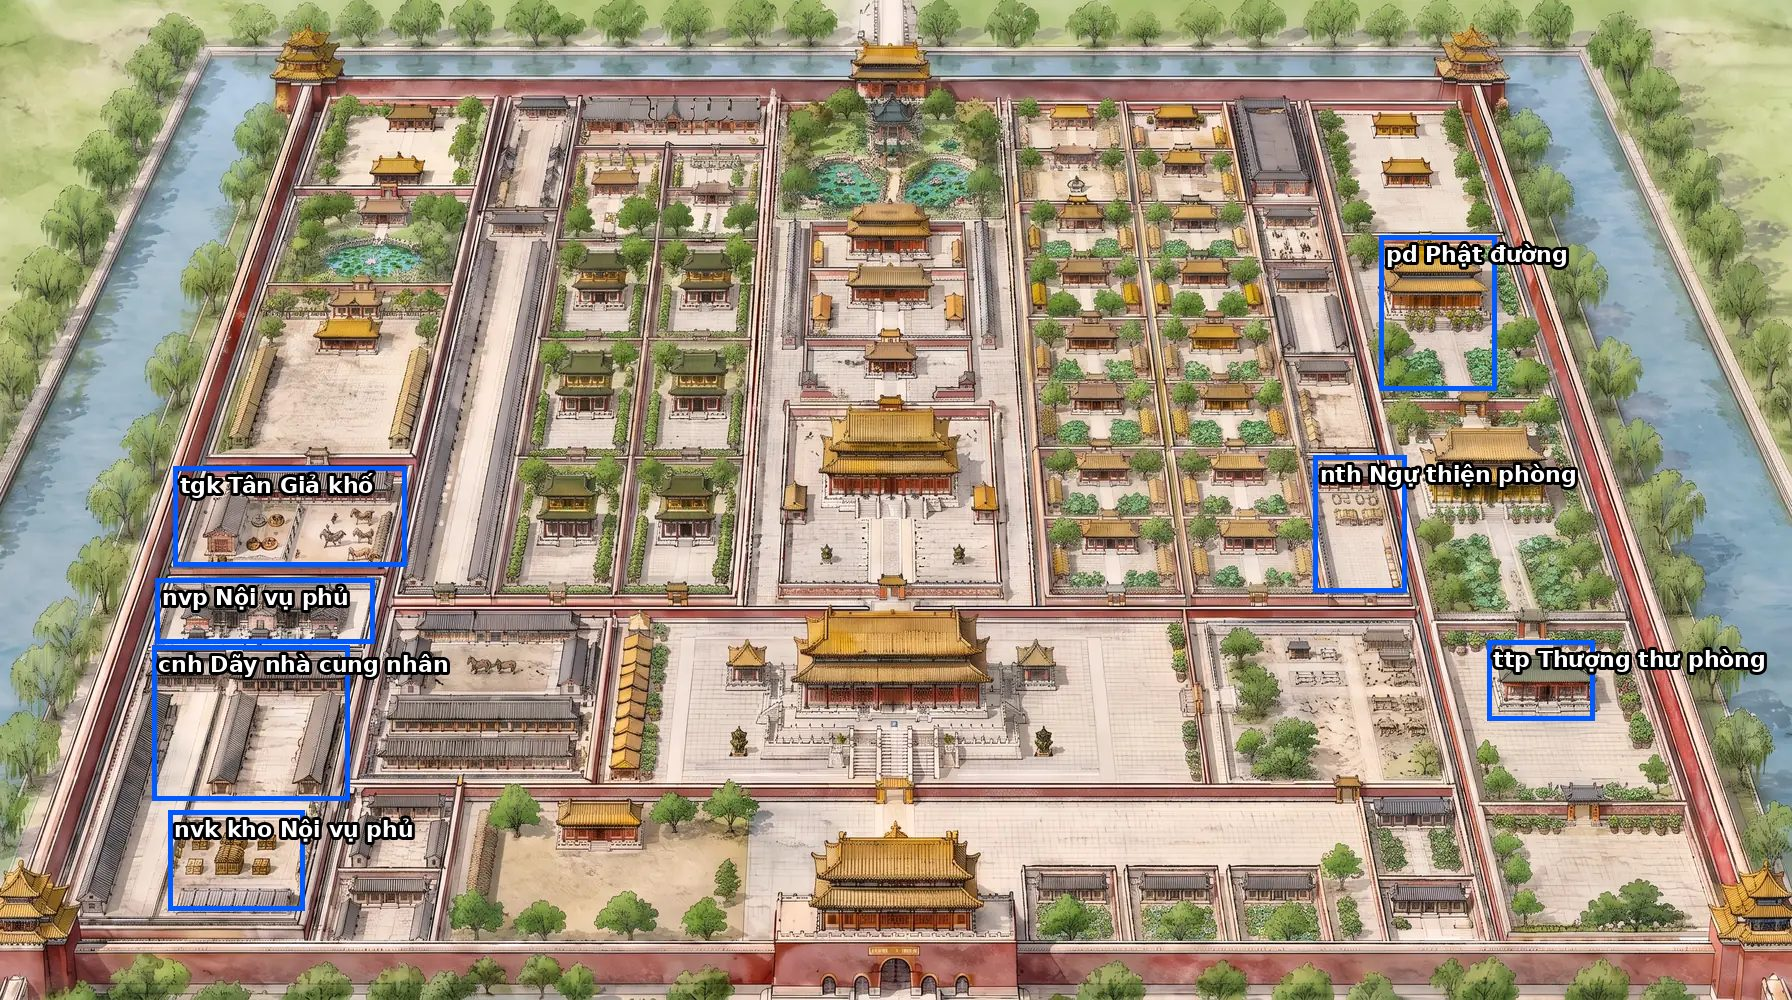
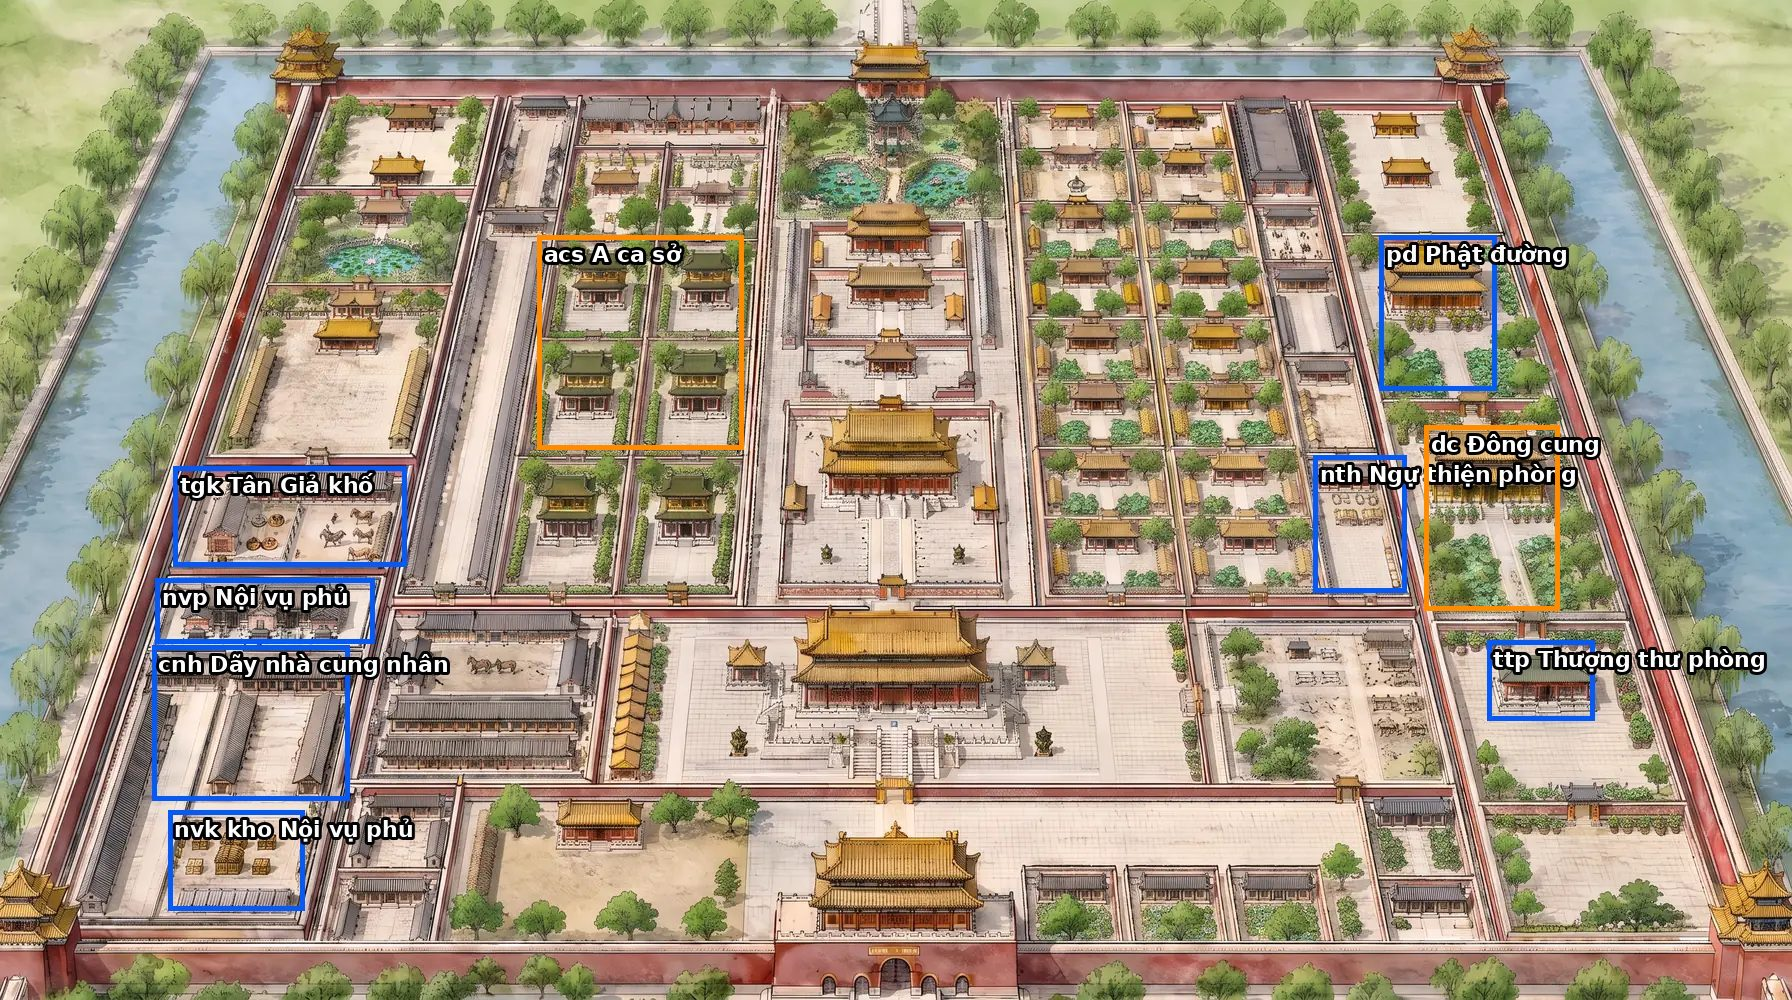
Nơi chốn: bỏ bản thí điểm bị chê; vẽ lại ảnh gốc Dãy nhà cung nhân bằng EDIT từ cảnh lãnh cung (3 ứng viên, bảng so); thêm A ca sở + Đông cung vào kế hoạch
Claude-Session: https://claude.ai/code/session_01V1ZZH4TC8cGXxdYrwHpFqQ

Changed region(s): [[0.2812, 0.217, 0.4375, 0.465], [0.7812, 0.403, 0.9062, 0.62]]

diff --git a/dev/art/side_places.py b/dev/art/side_places.py
@@ -1,0 +1,27 @@
+import os, sys, subprocess
+from PIL import Image, ImageDraw, ImageFont
+D = os.path.dirname(os.path.abspath(__file__)); R = sys.argv[1]; urls = sys.argv[2]; tag = sys.argv[3]
+os.makedirs(os.path.join(D, 'cand'), exist_ok=True)
+try: F = ImageFont.truetype('/usr/share/fonts/truetype/dejavu/DejaVuSans-Bold.ttf', 26)
+except Exception: F = None
+def fit(im):
+    im = im.convert('RGB'); w, h = im.size; s = 720 / h; nw = round(w * s)
+    im = im.resize((nw, 720), Image.LANCZOS); x = (nw - 1280) // 2
+    return im.crop((x, 0, x + 1280, 720))
+refs = ['lanh-cung-xuan-sang', 'ngu-hoa-vien-xuan-sang', 'kinh-su-phong-xuan-sang']
+for ln in open(urls):
+    k, u = ln.split(None, 1); p = os.path.join(D, 'cand', k + '.png')
+    if not os.path.exists(p): subprocess.run(['curl', '-sS', '-o', p, u.strip()], check=True)
+    c = fit(Image.open(p)); c.save(os.path.join(D, 'cand', k + '.jpg'), quality=90)
+    # side by side: candidate | existing game scenes
+    sh = Image.new('RGB', (1280 * 2, 720 * 2), 'white')
+    sh.paste(c.resize((1280, 720)), (0, 0))
+    for i, r in enumerate(refs):
+        im = Image.open(os.path.join(R, 'img', r + '.webp')).convert('RGB')
+        if i == 0: sh.paste(im.resize((1280, 720)), (1280, 0))
+        else: sh.paste(im.resize((1280, 720)), ((i - 1) * 1280, 720))
+    d = ImageDraw.Draw(sh)
+    for (x, y), t in [((0, 0), f'MOI: Day nha cung nhan ({k})'), ((1280, 0), 'game: lanh-cung'), ((0, 720), 'game: ngu-hoa-vien'), ((1280, 720), 'game: kinh-su-phong')]:
+        d.text((x + 16, y + 12), t, fill='white', font=F, stroke_width=3, stroke_fill='black')
+    sh.resize((1920, 1080)).save(os.path.join(R, 'dev/shots/places', f'{tag}-{k}.jpg'), quality=85)
+    print(k)

diff --git a/dev/art/PROGRESS_places.md b/dev/art/PROGRESS_places.md
@@ -1,19 +1,22 @@
 # Tranh cảnh nơi chốn mới (nhánh review/places, từ origin/main)
 
 Kế hoạch: dev/PLACES_PLAN.md. Chỉ có tranh; chưa nối mã (SCIMG/places/map-hotspots/j94 để thợ mã làm sau khi chủ duyệt).
+Magnific gpt-2-6, thư mục ba4aecfe-efce-47e2-b53f-30d292091886. Cảnh game đã tải lên Magnific để làm tham chiếu:
+`ngu-hoa-vien` u5nGbHAQLD, `kinh-su-phong` ksDVjkm16B, `lanh-cung` If69amntvE, `lanh-cung-xuan-sang` JNah2WyOq4.
 
-## Cách vẽ (giống PROGRESS_seasons)
-- Magnific gpt-2-6, thư mục ba4aecfe-efce-47e2-b53f-30d292091886. Tham chiếu phong cách: ảnh gốc của game tải lên Magnific
-  `ngu-hoa-vien` (u5nGbHAQLD), `kinh-su-phong` (ksDVjkm16B) (+ `lanh-cung` If69amntvE, chưa dùng).
-- Ảnh gốc: text-to-image 16:9 + 2 tham chiếu, count 2, chọn 1. Ảnh gốc là xuân-sáng.
-- 15 bản còn lại: EDIT từ ẢNH GỐC (không nối tiếp), lời nhắc "giữ nguyên bố cục…, chỉ đổi mùa và buổi" + mô tả mùa + buổi.
-- Đầu ra 1344x752 → co về cao 720, cắt giữa 1280x720, webp q80 (`proc.py` trong scratchpad; công thức: resize cao 720, cắt giữa).
-- Bảng ghép: dev/shots/places/<tên>.jpg (cột Xuân/Hạ/Thu/Đông, hàng sáng/trưa/chiều/tối).
+## Lần 1 (BỊ CHỦ CHÊ: "Nhìn AI quá, không giống phong cách game") — đã xoá khỏi nhánh
+- Ảnh gốc text-to-image (EbzAqx9uuO) + 15 edit: đối xứng một điểm tụ, sàn bóng ướt, đỏ/xanh ngọc quá rực, mặt nhẵn như nhựa, như sân khấu trống.
+  17 lượt × 40 = 680 tín dụng. 16 ảnh đã xoá khỏi img/ (commit sau 3d76f6c) để không ai nối nhầm. Mã Magnific còn trong thư mục nếu cần.
 
-## Tiến độ
-- [x] Dãy nhà cung nhân `day-nha-cung-nhan`: 16/16 + `day-nha-cung-nhan.webp` (= xuân-sáng). 2 ảnh gốc + 15 edit = 17 lượt × 40 = **680 tín dụng**, 0 vẽ lại.
-  Tự kiểm từng ảnh: không người/vật/chữ; bố cục, cổng, cột, chậu sứ, giá phơi, sàn đá giữ nguyên ở cả 16; sàn trống ~45% dưới.
-  Mã Magnific: gốc EbzAqx9uuO (bản kia VXUgdmgMMU bỏ). xuan-trua u5nG5rcQLD, xuan-chieu 4RuCRnT9Aa, xuan-toi cplLpIg0eP,
-  ha-sang ov9Pvqm829, ha-trua 0egsevgTfW, ha-chieu Do7Uou2pcl, ha-toi LwBdwZPswO, thu-sang bxTcx4I5Y2, thu-trua YMLxMu9WeC,
-  thu-chieu iGqFGm83uK, thu-toi xSdpSWLjfW, dong-sang LwBdwVGswO, dong-trua w4ht4oY7EI, dong-chieu XmPOmJaBfo, dong-toi cplLpLY0eP.
-- [ ] CHỜ CHỦ DUYỆT thí điểm rồi mới vẽ: noi-vu-phu, tan-gia-kho, ngu-thien-phong, phat-duong, thuong-thu-phong (~3.400 tín dụng).
+## Lần 2: ảnh gốc Dãy nhà cung nhân (CHỜ DUYỆT, chưa làm bản mùa/buổi)
+- EDIT từ cảnh đã duyệt `lanh-cung-xuan-sang` (giữ góc 3/4 lệch, nét cọ, màu dịu, ánh sáng sương sớm), tham chiếu phong cách ngu-hoa-vien + kinh-su-phong.
+  Sửa lãnh cung đổ nát thành dãy nhà cung nhân tươm tất: mái, cột, cửa lành lặn; dãy nhà thứ hai bên trái; cây sống ra lá, hoa;
+  sàn đá khô mờ; chậu giặt gỗ, chổi tre, ghế đẩu, chăn gấp, sào phơi áo vải, chum nước, chậu hoa. count 3 = 120 tín dụng.
+- Ứng viên: c1 jUXePz9LD0, c2 yiCaGeXPW9, c3 fHAZ1JACDY → `dev/art/cand/day-nha-cung-nhan-base2-c*.webp` (1344x752 gốc).
+- Bảng so (ứng viên | lanh-cung / ngu-hoa-vien | kinh-su-phong): `dev/shots/places/cnh-base2-c1.jpg`, `-c2.jpg`, `-c3.jpg` (dev/art/side_places.py).
+- **Chọn c3**: tường sạch nhất (c1/c2 vữa bong nhiều, dễ trông nghèo), nắng xiên dịu, đồ sinh hoạt gọn ở hiên, sàn trống ~40% dưới.
+  Lưu ý: bố cục giống lãnh cung (cùng cây, cùng bậc) vì sửa từ đó; nếu chủ thấy giống quá thì làm lại từ cảnh khác.
+- Sau khi duyệt: 15 edit mùa/buổi từ c3 (`dev/art/proc_places.py`, đặt c3 làm xuan-sang).
+
+## Còn lại (chờ duyệt phong cách)
+noi-vu-phu, tan-gia-kho, ngu-thien-phong, phat-duong, thuong-thu-phong, a-ca-so, dong-cung.
